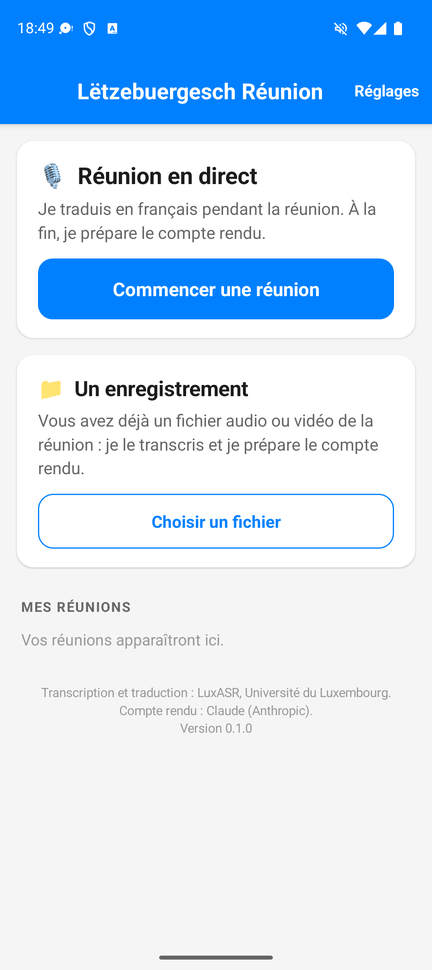
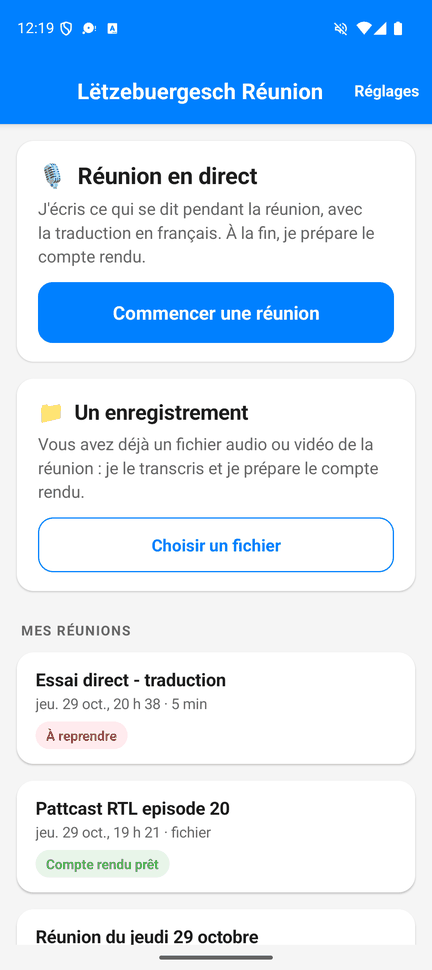
docs(labs): organiser l'accueil de Labs et montrer la rédaction du compte rendu
Accueil de Labs : deux groupes, « En essai » (Transcription, et une carte
pour l'application Lëtzebuergesch Réunion avec sa vignette) puis « Sorti de
l'atelier » (la dictée, dans le clavier). Traduit en anglais.

Page Transcription : l'application est présentée avec la transcription en
majeur et la traduction en mineur, le GIF du direct refait dans ce sens, et
un troisième GIF, la rédaction du compte rendu, sans aucun nom de personne.
La note d'essai dit que la réponse venait d'un faux service.

Claude-Session: https://claude.ai/code/session_014RSiXDTCkmup4xTZaRNZBW

diff --git a/docs/labs-transcription.html b/docs/labs-transcription.html
@@ -525,7 +525,7 @@ footer.page{margin-top:48px;padding-top:18px;border-top:1px solid var(--line);
     secrétaire de direction.
   </p>
   <ul class="facts">
-    <li data-i18n="app-1"><strong>Pendant la réunion</strong>, la traduction en français s'affiche en grand, le luxembourgeois dessous. Sur tablette, les deux sont côte à côte.</li>
+    <li data-i18n="app-1"><strong>Pendant la réunion</strong>, ce qui se dit s'écrit en grand, en luxembourgeois, au fil de la parole. La traduction en français suit en plus petit, dessous ; sur tablette, à côté.</li>
     <li data-i18n="app-2"><strong>À la fin, un seul bouton.</strong> L'enregistrement complet part chez LuxASR, qui sépare les voix, puis le compte rendu se prépare : résumé, points discutés, décisions, actions à mener, et les passages à vérifier, avec leur minutage.</li>
     <li data-i18n="app-3"><strong>Ensuite, on relit, on corrige et on envoie</strong> le compte rendu par e-mail, sans quitter l'application.</li>
     <li data-i18n="app-4"><strong>Un enregistrement déjà fait</strong>, audio ou vidéo, se transcrit de la même façon.</li>
@@ -540,9 +540,15 @@ footer.page{margin-top:48px;padding-top:18px;border-top:1px solid var(--line);
   </figure>
   <figure class="app-gif">
     <img src="Screenshots/reunion_direct_traduction.gif" width="360" height="850" loading="lazy"
-         alt="Animation de l'écran du direct : la traduction française s'écrit en grand au fil de la parole, le luxembourgeois en italique dessous ; on remonte dans le texte et le bouton « Revenir au direct » apparaît ; le réseau est coupé, le bandeau dit « Pas de réseau · j'enregistre quand même » ; au retour du réseau, la traduction reprend ; après la réunion, l'onglet Traduction"
+         alt="Animation de l'écran du direct : ce qui se dit s'écrit en grand, en luxembourgeois, au fil de la parole, la fin de phrase encore incertaine en gris clair ; la traduction française suit en petit, en italique, dessous"
          data-i18n-alt="app-gif2-alt">
-    <figcaption data-i18n="app-gif2-cap">Pendant la réunion : la traduction en direct, une coupure de réseau, la reprise.</figcaption>
+    <figcaption data-i18n="app-gif2-cap">Pendant la réunion : le luxembourgeois s'écrit en direct, la traduction suit en petit.</figcaption>
+  </figure>
+  <figure class="app-gif">
+    <img src="Screenshots/reunion_compte_rendu_creation.gif" width="360" height="850" loading="lazy"
+         alt="Animation de la rédaction du compte rendu : « Rédaction du compte rendu… », puis le texte qui s'écrit, section après section (résumé, points discutés), jusqu'au compte rendu prêt à relire"
+         data-i18n-alt="app-gif3-alt">
+    <figcaption data-i18n="app-gif3-cap">À la fin : le compte rendu s'écrit sous vos yeux.</figcaption>
   </figure>
   </div>
 
@@ -554,8 +560,8 @@ footer.page{margin-top:48px;padding-top:18px;border-top:1px solid var(--line);
     </figure>
     <figure>
       <img src="Screenshots/reunion_direct.png" width="432" height="970" loading="lazy"
-           alt="Écran du direct : « J'écoute et je traduis », le chronomètre et la jauge du son, les boutons A− et A+, puis la traduction française en grand et le luxembourgeois en italique dessous" data-i18n-alt="app-img2-alt">
-      <figcaption data-i18n="app-img2">Le direct : le français en grand, le luxembourgeois dessous.</figcaption>
+           alt="Écran du direct : « J'écoute et j'écris », le chronomètre et la jauge du son, les boutons A− et A+, puis le texte en luxembourgeois en grand et sa traduction française en petit dessous" data-i18n-alt="app-img2-alt">
+      <figcaption data-i18n="app-img2">Le direct : le luxembourgeois en grand, la traduction dessous.</figcaption>
     </figure>
     <figure>
       <img src="Screenshots/reunion_suivi.png" width="432" height="970" loading="lazy"
@@ -580,7 +586,7 @@ footer.page{margin-top:48px;padding-top:18px;border-top:1px solid var(--line);
     (13 minutes, trois voix, © CLT-UFA) : la transcription est revenue en une
     minute environ, les trois voix séparées. Le compte rendu montré a été rédigé
     à la main, en suivant les consignes que l'application donne au service de
-    rédaction. Pour le direct, le micro de l'émulateur ne transmettant pas le son, l'épisode a
+    rédaction, puis renvoyé à l'application par un faux service, faute de crédit sur les clés d'essai. Pour le direct, le micro de l'émulateur ne transmettant pas le son, l'épisode a
     été lu par l'application à la place du micro ; la liaison avec LuxASR et la traduction
     sont les vraies.
   </p>
@@ -743,25 +749,27 @@ footer.page{margin-top:48px;padding-top:18px;border-top:1px solid var(--line);
     'tech-p3': '<strong>Why the upload may fail straight away.</strong> A web page can only read another site’s reply if that site allows it, through a “CORS” header. As observed in September and again on 29 October 2026, the service did not yet set it on the acknowledgement of an upload. So the page first checks with half a second of silence, so as not to make the service work on your file in vain. If that is still the case, the page tells you so, without retrying in vain, and suggests transcribing on <a href="https://luxasr.uni.lu/">luxasr.uni.lu</a> and opening the result here.',
     'app-h2': 'In testing: the Lëtzebuergesch Réunion app 📱',
     'app-p1': 'For meetings held in Luxembourgish, we are trying out an Android app that builds on this page and goes one step further. It is meant for the person who attends the meeting and has to write it up, an executive assistant for instance.',
-    'app-1': '<strong>During the meeting</strong>, the French translation is shown in large type, with the Luxembourgish below it. On a tablet, the two sit side by side.',
+    'app-1': '<strong>During the meeting</strong>, what is said is written out in large type, in Luxembourgish, as people speak. The French translation follows in smaller type below it; on a tablet, beside it.',
     'app-2': '<strong>At the end, a single button.</strong> The full recording goes to LuxASR, which separates the voices, then the minutes are prepared: summary, points discussed, decisions, actions, and the passages to check, with their timing.',
     'app-3': '<strong>Then you read, correct and send</strong> the minutes by e-mail, without leaving the app.',
     'app-4': '<strong>An existing recording</strong>, audio or video, is transcribed the same way.',
     'app-gif-cap': 'A recording’s journey, from the file to the minutes.',
     'app-gif-alt': 'Five-screen animation of the Lëtzebuergesch Réunion app: 1. the home screen, with “Réunion en direct” (live meeting) and “Un enregistrement” (a recording); 2. the chosen file, its title and three participants; 3. progress, “transcription, about 1 min left”; 4. the transcript, each line preceded by its timing and its voice (Voix 1, Voix 2, Voix 3); 5. the summary of the minutes',
-    'app-gif2-cap': 'During the meeting: live translation, a network cut, and the recovery.',
-    'app-gif2-alt': 'Animation of the live screen: the French translation appears in large type as people speak, with the Luxembourgish in italics below; scrolling up shows the “Revenir au direct” (back to live) button; the network is cut and the banner says “Pas de réseau · j’enregistre quand même” (no network, still recording); when the network returns, the translation resumes; after the meeting, the Traduction tab',
+    'app-gif2-cap': 'During the meeting: the Luxembourgish is written out live, the translation follows in small type.',
+    'app-gif2-alt': 'Animation of the live screen: what is said is written out in large type, in Luxembourgish, as people speak, the still-uncertain end of the sentence in light grey; the French translation follows in small italics below',
+    'app-gif3-cap': 'At the end: the minutes write themselves before your eyes.',
+    'app-gif3-alt': 'Animation of the minutes being written: “Rédaction du compte rendu…” (writing the minutes), then the text appears section by section (summary, points discussed) until the minutes are ready to read',
     'app-img1': 'Two ways to start.',
     'app-img1-alt': 'Home screen: two cards, “Réunion en direct” with the “Commencer une réunion” button, and “Un enregistrement” with “Choisir un fichier”',
-    'app-img2': 'Live: French in large type, Luxembourgish below.',
-    'app-img2-alt': 'Live screen: “J’écoute et je traduis” (listening and translating), the timer and sound meter, the A− and A+ buttons, then the French translation in large type with the Luxembourgish in italics below',
+    'app-img2': 'Live: Luxembourgish in large type, the translation below.',
+    'app-img2-alt': 'Live screen: “J’écoute et j’écris” (listening and writing), the timer and sound meter, the A− and A+ buttons, then the Luxembourgish text in large type with its French translation in small type below',
     'app-img3': 'Each step is shown, and you can close the app while you wait.',
     'app-img3-alt': 'Progress: “Fichier reçu” ticked, full transcription under way, about one minute left',
     'app-img4': 'Who said what, and when.',
     'app-img4-alt': 'Luxembourgish transcript, each line preceded by its timing and its voice: Voix 1, Voix 3, Voix 2',
     'app-img5': 'The minutes, to read and correct before sending.',
     'app-img5-alt': 'Minutes in French, with SUMMARY then POINTS DISCUSSED sections, as plain text ready to paste into an e-mail',
-    'app-essai': 'These images come from a test on an emulator on 29 October 2026, with episode 20 of RTL Radio Lëtzebuerg’s “Pattcast” podcast (13 minutes, three voices, © CLT-UFA): the transcript came back in about a minute, with the three voices separated. The minutes shown were written by hand, following the instructions the app gives to the writing service. For the live part, since the emulator’s microphone does not pass sound through, the app played the episode in place of the microphone; the link to LuxASR and the translation are the real ones.',
+    'app-essai': 'These images come from a test on an emulator on 29 October 2026, with episode 20 of RTL Radio Lëtzebuerg’s “Pattcast” podcast (13 minutes, three voices, © CLT-UFA): the transcript came back in about a minute, with the three voices separated. The minutes shown were written by hand, following the instructions the app gives to the writing service, then sent back to the app by a stand-in service, as the test keys had no credit left. For the live part, since the emulator’s microphone does not pass sound through, the app played the episode in place of the microphone; the link to LuxASR and the translation are the real ones.',
     'app-donnees': '🔒 The sound goes to LuxASR, at the University of Luxembourg; the text of the meeting goes to the service that writes the minutes (Claude, by Anthropic, or Mistral, as chosen by whoever sets up the app). Tell participants the meeting is being recorded, and ask your employer’s permission. The app cannot be downloaded yet: it is in testing.',
     'feedback-h2': 'Tell us how it goes',
     'feedback-p': 'Labs is for trying things before deciding. The most useful thing to send us: <strong>the kind of recording, its length, the number of voices, and what was separated well or badly</strong>.',

diff --git a/docs/labs.html b/docs/labs.html
@@ -184,6 +184,10 @@ details.tech p{color:var(--ink-soft);font-size:14.5px;}
 .exp h2{margin:0 0 6px;font-size:18px;}
 .exp p{margin:0 0 8px;color:var(--ink-soft);font-size:15px;}
 .exp .go{color:var(--sea);font-weight:700;font-size:14.5px;}
+/* Une carte avec une vignette de l'écran, à gauche ; au-dessus sur téléphone. */
+.exp-img{display:grid;grid-template-columns:96px 1fr;gap:16px;align-items:start;}
+.exp-img img{width:96px;height:auto;border:1px solid var(--line);border-radius:8px;display:block;}
+@media (max-width:420px){.exp-img{grid-template-columns:72px 1fr;gap:12px;}.exp-img img{width:72px;}}
 .badge{display:inline-block;font-family:var(--mono);font-size:11.5px;letter-spacing:.06em;
   text-transform:uppercase;padding:2px 8px;border-radius:999px;margin-left:6px;vertical-align:3px;
   border:1px solid var(--line);}
@@ -232,16 +236,31 @@ details.tech p{color:var(--ink-soft);font-size:14.5px;}
 </header>
 
 <section>
+  <h2 data-i18n="groupe-test">En essai</h2>
+  <ul class="exps">
+    <li><a class="exp" href="labs-transcription.html">
+      <h2><span data-i18n="transcription-h2">🎧 Transcription</span> <span class="badge test" data-i18n="badge-test">En test</span></h2>
+      <p data-i18n="transcription-p">Mettre par écrit une réunion, une interview ou un podcast, d'un fichier ou en direct, en séparant les voix. Directement dans le navigateur.</p>
+      <span class="go" data-i18n="transcription-go">Transcrire un enregistrement →</span>
+    </a></li>
+    <li><a class="exp exp-img" href="labs-transcription.html#application">
+      <img src="Screenshots/reunion_direct.png" width="432" height="970" loading="lazy" alt="" aria-hidden="true">
+      <div>
+        <h2><span data-i18n="reunion-h2">📱 Lëtzebuergesch Réunion</span> <span class="badge test" data-i18n="badge-test2">En test</span></h2>
+        <p data-i18n="reunion-p">Une application Android pour les réunions en luxembourgeois : ce qui se dit s'écrit en direct, avec la traduction en français dessous, puis le compte rendu se prépare tout seul, à relire et envoyer.</p>
+        <span class="go" data-i18n="reunion-go">Voir l'application →</span>
+      </div>
+    </a></li>
+  </ul>
+</section>
+
+<section>
+  <h2 data-i18n="groupe-stable">Sorti de l'atelier</h2>
   <ul class="exps">
     <li><a class="exp" href="labs-dictee.html">
       <h2><span data-i18n="dictee-h2">🎙 Dictée vocale</span> <span class="badge stable" data-i18n="badge-stable">Dans le clavier</span></h2>
       <p data-i18n="dictee-p">Vous parlez, le clavier écrit, au fil de la phrase. Sortie de l'atelier : intégrée au clavier depuis la version 33.0.0.</p>
       <span class="go" data-i18n="dictee-go">Voir comment elle marche →</span>
-    </a></li>
-    <li><a class="exp" href="labs-transcription.html">
-      <h2><span data-i18n="transcription-h2">🎧 Transcription</span> <span class="badge test" data-i18n="badge-test">En test</span></h2>
-      <p data-i18n="transcription-p">Mettre par écrit une réunion, une interview ou un podcast, d'un fichier ou en direct, en séparant les voix. Directement dans le navigateur.</p>
-      <span class="go" data-i18n="transcription-go">Transcrire un enregistrement →</span>
     </a></li>
   </ul>
 </section>
@@ -296,6 +315,12 @@ details.tech p{color:var(--ink-soft);font-size:14.5px;}
     'tab-transcription': '🎧 Transcription',
     'h1': "The keyboard's workshop 🔬",
     'lead': "Labs is where we try new things around <strong>spoken Luxembourgish</strong>, before they join the keyboard or get dropped. Each experiment has its page: how it works, where your voice goes, and what it is worth.",
+    'groupe-test': 'In testing',
+    'groupe-stable': 'Out of the workshop',
+    'reunion-h2': '📱 Lëtzebuergesch Réunion',
+    'badge-test2': 'Testing',
+    'reunion-p': 'An Android app for meetings held in Luxembourgish: what is said is written out live, with the French translation below, then the minutes are prepared on their own, ready to read and send.',
+    'reunion-go': 'See the app →',
     'dictee-h2': '🎙 Voice dictation',
     'badge-stable': 'In the keyboard',
     'dictee-p': 'You speak, the keyboard writes, as your sentence goes. It has left the workshop: built into the keyboard since version 33.0.0.',
